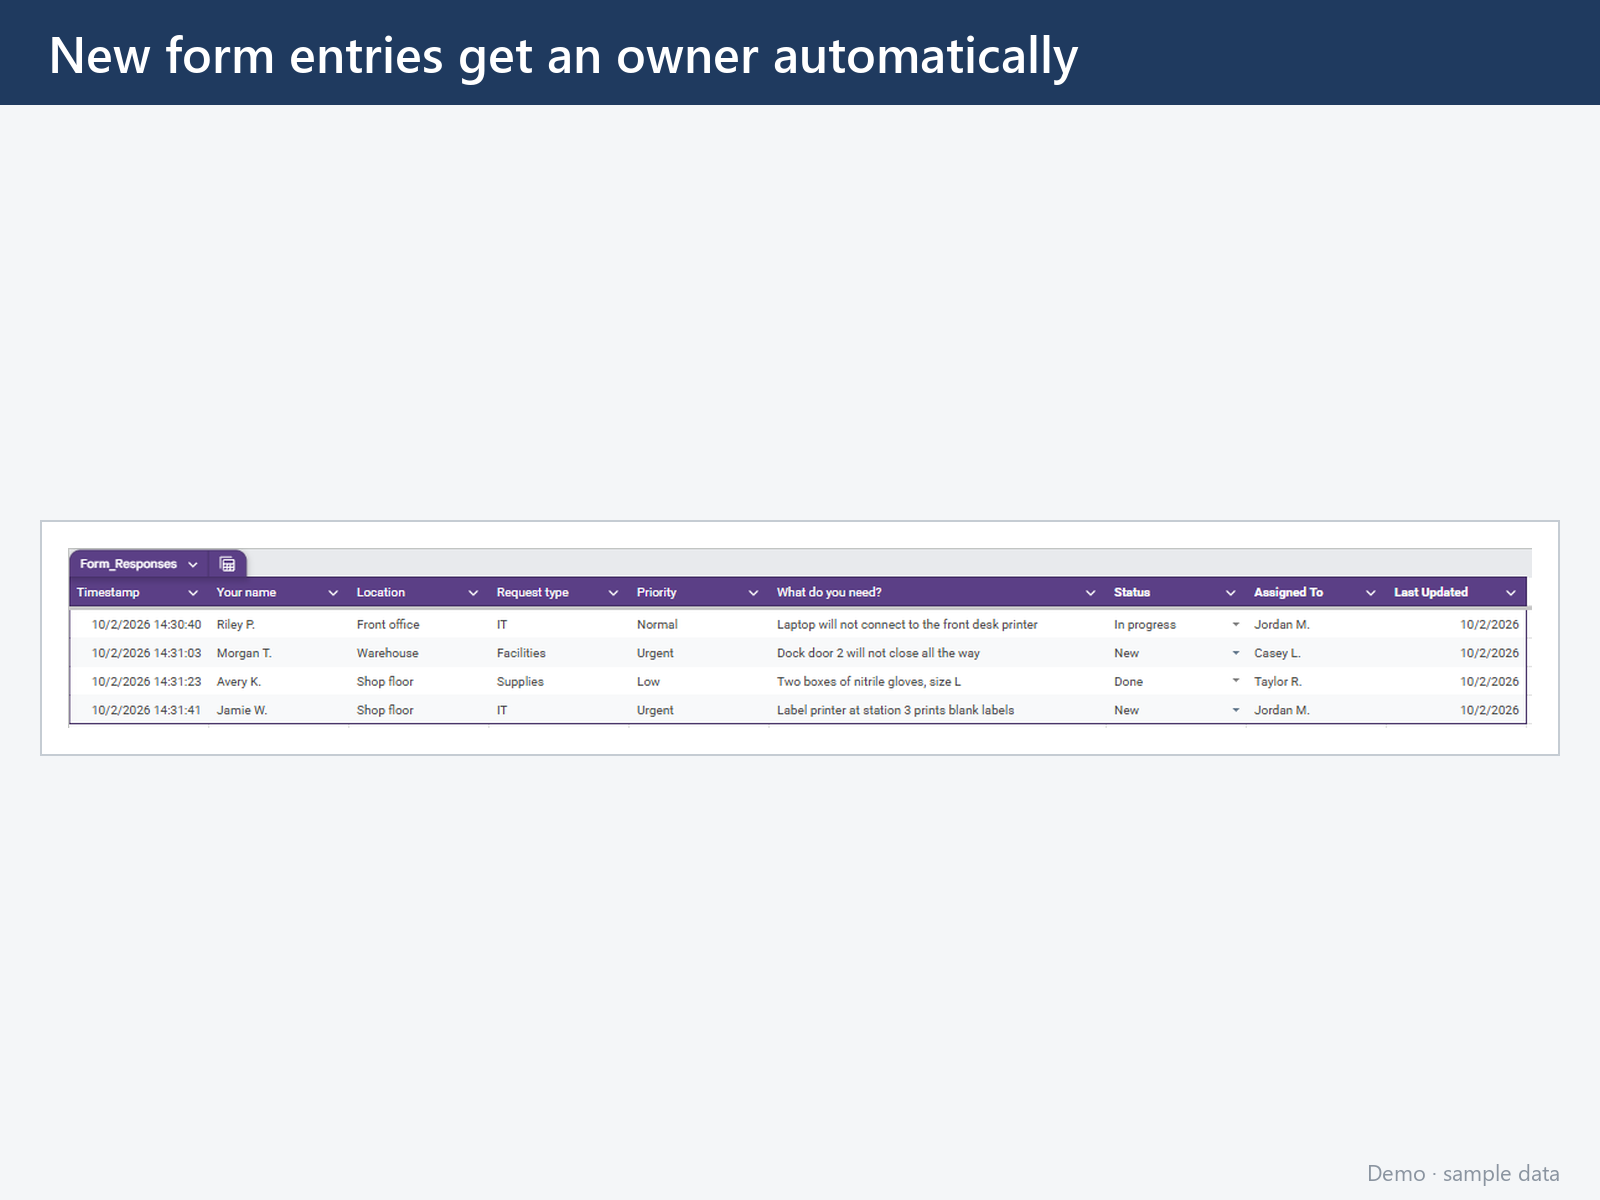
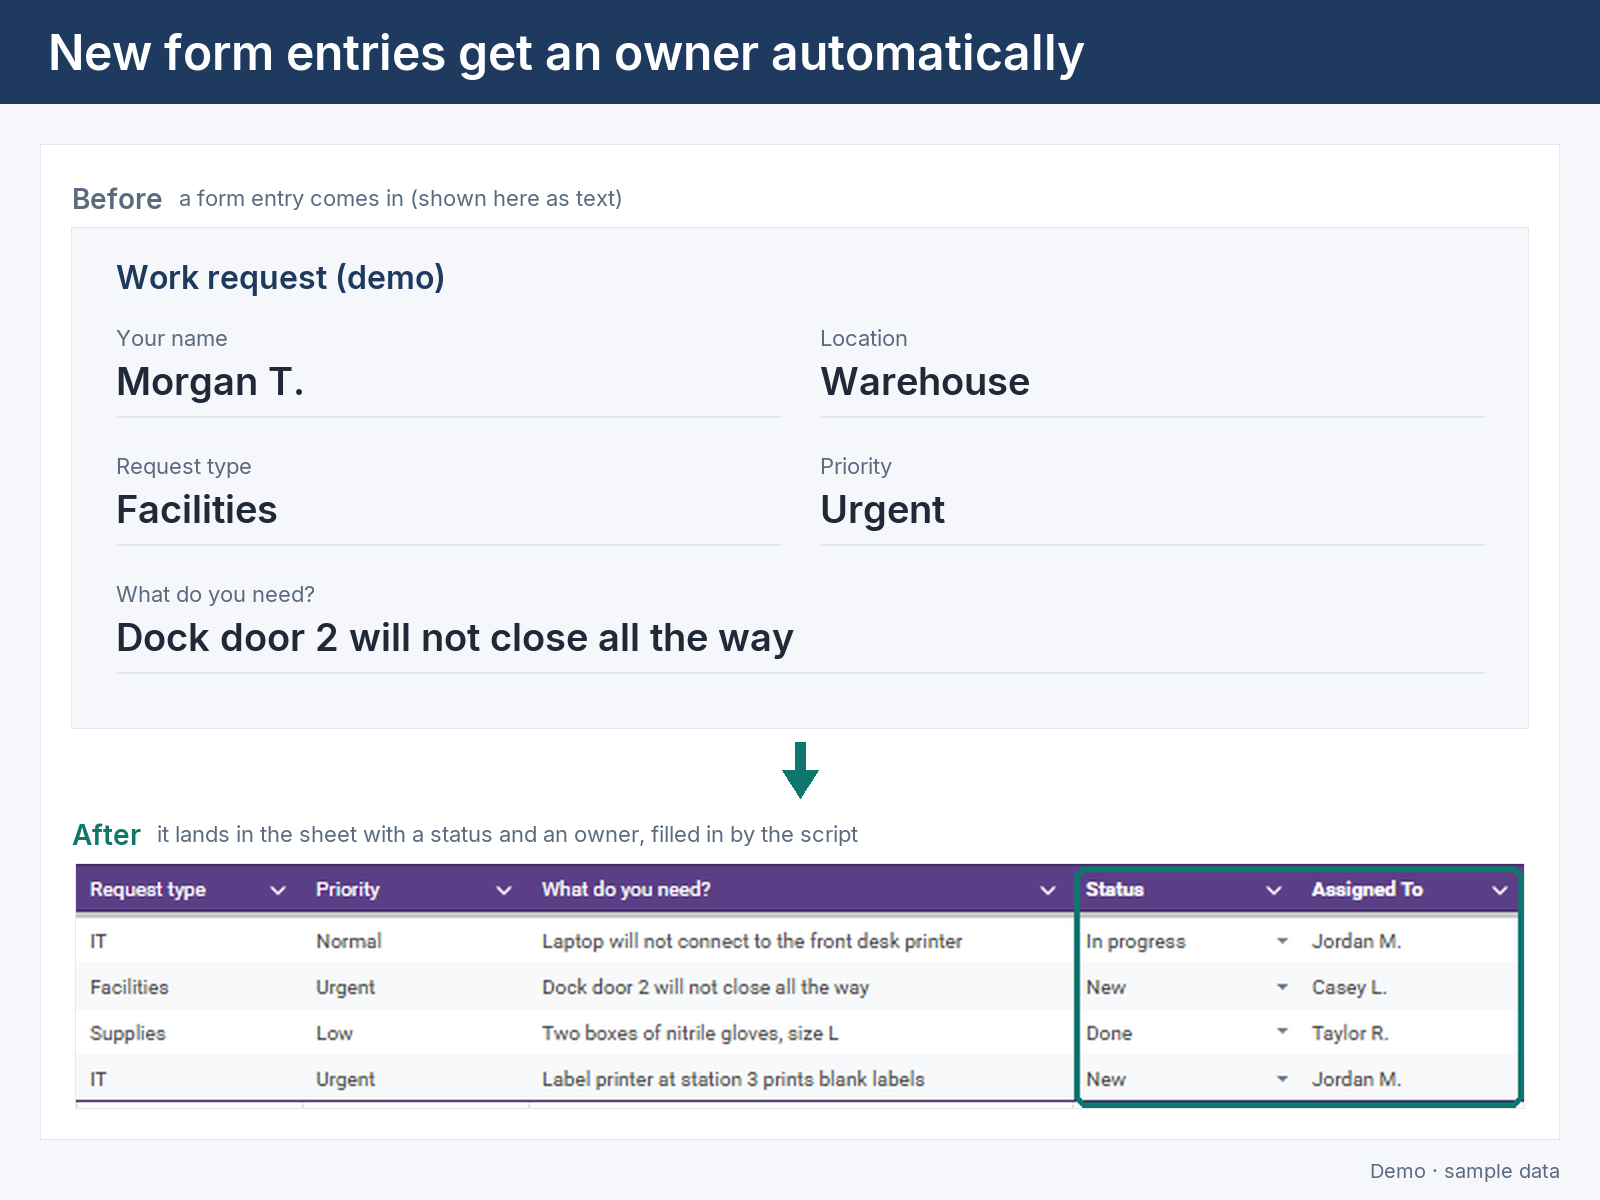
Re-frame the three showcase images on the style guide template
The framing tool now uses the showcase kit. The sheet image becomes a
before/after: a form entry drawn as text from the sample data, above the
real sheet rows cropped to five columns so they can be shown at 2x, with
the two columns the script fills boxed in teal. The summary email gets a
short list of what it contains. Raw captures are unchanged and untracked.

diff --git a/tools/frame_screenshots.py b/tools/frame_screenshots.py
@@ -4,77 +4,88 @@ Usage:
     python tools\\frame_screenshots.py              frame screenshots\\raw\\ into screenshots\\
     python tools\\frame_screenshots.py --self-test  check the tool with made-up placeholder captures
 
-Each finished image is a composite: a title strip with a caption, the capture on
-a white card in the middle, and "Demo - sample data" at the bottom right.
+The frame (navy strip, caption, white card, footer) is the AZG showcase template,
+tools\\showcase.py. This tool decides what goes on each card:
 
-- Captures whose file names start with the same number are stacked top to bottom
-  into one image, so an email's subject line and its body can be captured
-  separately, leaving out the line with the addresses between them.
-- Captures are scaled up to fill the card, but never beyond twice their size, so
-  the text stays sharp. All parts of one image share the same scale.
+  shot 1  a form entry (drawn as text from sample-data\\responses.csv) above the
+          sheet rows it turns into, with the two columns the script fills boxed
+  shot 2  the alert email: subject and body
+  shot 3  the daily summary email: subject and body, with what it contains
+  shot 4  the Run Log, if it was captured
+
+- Captures whose file names start with the same number belong to the same shot.
+- Captures are enlarged to fill the card, never beyond twice their size, so the
+  text stays sharp. All captures of one shot share one scale.
 - CROPS trims a capture before framing. The raw file itself is never changed.
 
 The captures are re-drawn, not copied, so nothing hidden in the original file
 (such as who captured it) carries over. What is visible in a capture is NOT
 checked: crop out addresses and the account picture when capturing, as DEPLOY.md
-says.
+says. A 400 px wide copy of each image goes to screenshots\\_work\\ for a look at
+thumbnail size.
 """
 
 from __future__ import annotations
 
+import csv
 import hashlib
 import re
 import sys
 from dataclasses import dataclass
 from pathlib import Path
 
-from PIL import Image, ImageDraw, ImageFont
+from PIL import Image, ImageDraw
+
+import showcase as kit  # tools\showcase.py: a copy of the AZG showcase kit
 
 ROOT = Path(__file__).resolve().parent.parent
 SHOTS_DIR = ROOT / "screenshots"
 RAW_DIR = SHOTS_DIR / "raw"
 WORK_DIR = SHOTS_DIR / "_work"
-FONTS = Path(r"C:\Windows\Fonts")
+RESPONSES = ROOT / "sample-data" / "responses.csv"
+
+FORM_TITLE = "Work request (demo)"
+FEATURED_RESPONSE = 2  # the entry shown in shot 1: line 2 of responses.csv, the one in the alert email
 
 
 @dataclass(frozen=True)
 class Shot:
     file_name: str  # the finished image
     caption: str  # on the title strip: 4 to 8 words
-    labels: tuple[str, ...] = ()  # a small label above each stacked part, when the counts match
+    layout: str  # which card builder below lays it out
 
 
 # Shot number -> the finished image. Captures are matched by the number their name starts with.
 SHOTS = {
-    "1": Shot("1-sheet-status-and-assignee.png", "New form entries get an owner automatically"),
-    "2": Shot("2-alert-email.png", "Each new request sends an alert email", ("Subject", "Email")),
-    "3": Shot("3-daily-summary-email.png", "A daily summary lists what's still open", ("Subject", "Email")),
-    "4": Shot("4-run-log.png", "Every run is recorded in a log"),
+    "1": Shot("1-sheet-status-and-assignee.png", "New form entries get an owner automatically", "form_to_sheet"),
+    "2": Shot("2-alert-email.png", "Each new request sends an alert email", "email"),
+    "3": Shot("3-daily-summary-email.png", "A daily summary lists what's still open", "summary"),
+    "4": Shot("4-run-log.png", "Every run is recorded in a log", "plain"),
 }
 
 # Pixels to trim from a capture before framing, by raw file name.
-# 2b: the capture ends with the bare label "Open the sheet:" (the link after it was
-# left out on purpose). 32 px takes off that line and the blank line above it.
 CROPS = {
+    # The sheet capture is 1181 px wide, too wide to enlarge much. Keep the five
+    # columns from "Request type" to "Assigned To": cut left of "Request type"
+    # (339), cut "Last Updated" off the right (118), and take off the tab strip
+    # above the header row (23). Each cut falls in the gap between two columns.
+    "1-sheet.png": {"left": 339, "right": 118, "top": 23},
+    # The capture ends with the bare label "Open the sheet:" (the link after it was
+    # left out on purpose). 32 px takes off that line and the blank line above it.
     "2b-alert-body.png": {"bottom": 32},
 }
 
-MAX_UPSCALE = 2.0  # never enlarge a capture beyond this, or its text goes soft
+# In shot 1, the part of the cropped sheet capture to box in teal: the Status and
+# Assigned To columns, which the script fills in. (left, top, right, bottom) in pixels.
+SHEET_HIGHLIGHT = (499, 1, 723, 121)
 
-WIDTH, HEIGHT = 1600, 1200
-STRIP_HEIGHT = 104
-MARGIN = 40
-CONTENT_BOX = (MARGIN, STRIP_HEIGHT + 28, WIDTH - MARGIN, HEIGHT - 56)
-BACKGROUND = "#F4F6F8"
-STRIP = "#1F3A5F"
-FOOTNOTE = "Demo \u00b7 sample data"
-STACK_GAP = 22
-CARD_PAD = 28
-LABEL_HEIGHT = 34
-
-
-def font(file_name: str, size: int) -> ImageFont.FreeTypeFont:
-    return ImageFont.truetype(str(FONTS / file_name), size)
+EMAIL_LABELS = ("Subject", "Email")
+SUMMARY_POINTS = [
+    "One email a day, to the sheet owner",
+    "Grouped by who it is assigned to",
+    "Urgent first, then the oldest",
+    "Finished requests drop off the list",
+]
 
 
 def load(path: Path, crop: dict[str, int] | None = None) -> Image.Image:
@@ -91,47 +102,88 @@ def load(path: Path, crop: dict[str, int] | None = None) -> Image.Image:
     return plain.crop(box)
 
 
-def build_card(parts: list[Image.Image], labels: tuple[str, ...]) -> tuple[Image.Image, float]:
-    """The captures top to bottom on one white card. Returns the card and the scale used."""
-    if len(labels) != len(parts):
-        labels = ()
-    left, top, right, bottom = CONTENT_BOX
-    fixed = 2 * CARD_PAD + STACK_GAP * (len(parts) - 1) + LABEL_HEIGHT * len(labels)
-    scale = min(MAX_UPSCALE,
-                (right - left - 2 * CARD_PAD) / max(part.width for part in parts),
-                (bottom - top - fixed) / sum(part.height for part in parts))
-    scaled = [part.resize((max(1, round(part.width * scale)), max(1, round(part.height * scale))), Image.LANCZOS)
-              for part in parts]
+def featured_response() -> list[tuple[str, str]]:
+    """The form's questions and one made-up answer to each, from the sample data."""
+    with open(RESPONSES, newline="", encoding="utf-8") as handle:
+        rows = list(csv.reader(handle))
+    return list(zip(rows[0][1:], rows[FEATURED_RESPONSE][1:]))  # without the Timestamp column
 
-    card = Image.new("RGB", (max(part.width for part in scaled) + 2 * CARD_PAD,
-                             sum(part.height for part in scaled) + fixed), "white")
-    draw = ImageDraw.Draw(card)
-    y = CARD_PAD
-    for index, part in enumerate(scaled):
-        if labels:
-            draw.text((CARD_PAD, y + LABEL_HEIGHT // 2 - 2), labels[index], font=font("segoeui.ttf", 22),
-                      fill="#8A94A0", anchor="lm")
-            y += LABEL_HEIGHT
-        card.paste(part, (CARD_PAD, y))
-        y += part.height + STACK_GAP
-    draw.rectangle((0, 0, card.width - 1, card.height - 1), outline="#C5CCD3", width=2)
+
+def form_panel(size: tuple[int, int]) -> Image.Image:
+    """A form entry drawn as plain text: the question titles with one answer each."""
+    width, height = size
+    panel = Image.new("RGB", size, kit.SURFACE)
+    draw = ImageDraw.Draw(panel)
+    margin = 44
+    kit.text(draw, (margin, 30), FORM_TITLE, 32, "semibold", kit.NAVY)
+
+    fields = featured_response()
+    cells = [(0, 0, 1), (1, 0, 1), (0, 1, 1), (1, 1, 1), (0, 2, 2)]  # column, row, columns spanned
+    column_width = (width - 2 * margin - 40) // 2
+    top = 96
+    row_height = (height - top - 20) // 3
+    for (question, answer), (column, row, span) in zip(fields, cells):
+        x = margin + column * (column_width + 40)
+        y = top + row * row_height
+        right = x + column_width * span + 40 * (span - 1)
+        kit.text(draw, (x, y), question, 22, "regular", kit.SLATE)
+        kit.text(draw, (x, y + 34), answer, 38, "semibold", kit.INK)
+        draw.line((x, y + 92, right, y + 92), fill=kit.LINE, width=2)
+    return panel
+
+
+def card_form_to_sheet(parts: list[Image.Image]) -> tuple[Image.Image, float]:
+    """Before: the form entry. After: the sheet rows, with the script's two columns boxed."""
+    sheet = parts[0].copy()
+    if sheet.size == (724, 122):  # the real capture, cropped as in CROPS
+        ImageDraw.Draw(sheet).rounded_rectangle(SHEET_HIGHLIGHT, radius=6, outline=kit.TEAL, width=3)
+    left, top, right, bottom = kit.inner(kit.new_card())
+    scale = min(kit.MAX_CAPTURE_UPSCALE, (right - left) / sheet.width)
+    usable = bottom - top - kit.ARROW_GAP - 2 * kit.LABEL_ROW
+    before_height = usable - round(sheet.height * scale)
+    card, scales = kit.before_after(
+        form_panel((right - left, before_height)), sheet, orientation="vertical", share=before_height / usable,
+        before_note="a form entry comes in (shown here as text)",
+        after_note="it lands in the sheet with a status and an owner, filled in by the script",
+        after_upscale=kit.MAX_CAPTURE_UPSCALE)
+    return card, scales[1]
+
+
+def card_email(parts: list[Image.Image]) -> tuple[Image.Image, float]:
+    """The subject line and the body, stacked under small labels, centred on the card."""
+    card = kit.new_card()
+    left, top, right, bottom = kit.inner(card)
+    labels = EMAIL_LABELS if len(parts) == len(EMAIL_LABELS) else ("",) * len(parts)
+    block, scale = kit.labelled_stack(list(zip(labels, parts)), right - left, bottom - top)
+    kit.place(card, block, (left, top, right, bottom), max_upscale=1.0)
     return card, scale
 
 
-def compose(card: Image.Image, caption: str, out_path: Path) -> None:
-    """Title strip on top, the card centred in the rest, footnote bottom right."""
-    canvas = Image.new("RGB", (WIDTH, HEIGHT), BACKGROUND)
-    draw = ImageDraw.Draw(canvas)
-    draw.rectangle((0, 0, WIDTH, STRIP_HEIGHT), fill=STRIP)
-    draw.text((MARGIN + 8, STRIP_HEIGHT // 2), caption, font=font("seguisb.ttf", 50), fill="white", anchor="lm")
+def card_summary(parts: list[Image.Image]) -> tuple[Image.Image, float]:
+    """The summary email on the left, what it contains on the right."""
+    card = kit.new_card()
+    left, top, right, bottom = kit.inner(card)
+    points_width = 430
+    labels = EMAIL_LABELS if len(parts) == len(EMAIL_LABELS) else ("",) * len(parts)
+    block, scale = kit.labelled_stack(list(zip(labels, parts)), right - left - points_width - 60, bottom - top)
+    box, _ = kit.place(card, block, (left, top, right - points_width - 60, bottom), max_upscale=1.0, align="left")
+    x = box[2] + 60
+    draw = ImageDraw.Draw(card)
+    kit.text(draw, (x, box[1] + 6), "What's in it", 26, "semibold", kit.SLATE)
+    kit.bullet_list(card, (x, box[1] + 64, right, bottom), SUMMARY_POINTS, size=28)
+    return card, scale
 
-    left, top, right, bottom = CONTENT_BOX
-    assert card.width <= right - left and card.height <= bottom - top, card.size
-    canvas.paste(card, (left + (right - left - card.width) // 2, top + (bottom - top - card.height) // 2))
 
-    draw.text((WIDTH - MARGIN, HEIGHT - 28), FOOTNOTE, font=font("segoeui.ttf", 22), fill="#8A94A0", anchor="rm")
-    out_path.parent.mkdir(parents=True, exist_ok=True)
-    canvas.save(out_path, "PNG")
+def card_plain(parts: list[Image.Image]) -> tuple[Image.Image, float]:
+    """One or more captures, stacked and centred."""
+    card = kit.new_card()
+    left, top, right, bottom = kit.inner(card)
+    block, scale = kit.labelled_stack([("", part) for part in parts], right - left, bottom - top)
+    kit.place(card, block, (left, top, right, bottom), max_upscale=1.0)
+    return card, scale
+
+
+LAYOUTS = {"form_to_sheet": card_form_to_sheet, "email": card_email, "summary": card_summary, "plain": card_plain}
 
 
 def shot_number(path: Path) -> str | None:
@@ -140,7 +192,7 @@ def shot_number(path: Path) -> str | None:
     return digits.group() if digits else None
 
 
-def frame_all(raw_dir: Path, out_dir: Path, crops: dict[str, dict[str, int]]) -> list[dict]:
+def frame_all(raw_dir: Path, out_dir: Path, crops: dict[str, dict[str, int]], thumbnails: Path | None = None) -> list[dict]:
     """Frame every shot that has captures. Returns one record per image written."""
     captures = sorted(p for p in raw_dir.glob("*") if p.suffix.lower() in (".png", ".jpg", ".jpeg"))
     for path in captures:
@@ -153,16 +205,14 @@ def frame_all(raw_dir: Path, out_dir: Path, crops: dict[str, dict[str, int]]) ->
             print(f"  shot {number}: no capture starting with '{number}' in {raw_dir.name}\\ - skipped")
             continue
         parts = [load(p, crops.get(p.name)) for p in sources]
-        card, scale = build_card(parts, shot.labels)
-        out_path = out_dir / shot.file_name
-        compose(card, shot.caption, out_path)
-        with Image.open(out_path) as check:
-            assert check.size == (WIDTH, HEIGHT), check.size
-            assert not check.info, check.info
+        card, scale = LAYOUTS[shot.layout](parts)
+        out_path = kit.compose(card, shot.caption, out_dir / shot.file_name)
+        if thumbnails:
+            kit.thumbnail(out_path, thumbnails)
         used = ", ".join(p.name + (f" (cropped: {crops[p.name]})" if p.name in crops else "") for p in sources)
-        print(f"  shot {number}: {shot.file_name}  {WIDTH}x{HEIGHT}  scale {scale:.2f}x  from {used}")
+        print(f"  shot {number}: {shot.file_name}  {kit.WIDTH}x{kit.HEIGHT}  captures at {scale:.2f}x  from {used}")
         records.append({"path": out_path, "scale": scale, "sources": [p.name for p in sources],
-                        "sizes": [part.size for part in parts], "card": card.size})
+                        "sizes": [part.size for part in parts]})
     return records
 
 
@@ -177,7 +227,7 @@ def self_test() -> int:
     for stale in [*raw.glob("*.png"), *out.glob("*.png")]:
         stale.unlink()
     placeholders = {  # named and sized like real captures
-        "1-sheet.png": (1400, 420),
+        "1-sheet.png": (1181, 145),
         "2a-alert-subject.png": (900, 60),
         "2b-alert-body.png": (760, 520),
         "3a-summary-subject.png": (300, 30),
@@ -187,32 +237,37 @@ def self_test() -> int:
     for name, size in placeholders.items():
         image = Image.new("RGBA", size, "white")
         draw = ImageDraw.Draw(image)
-        draw.rectangle((0, 0, size[0] - 1, size[1] - 1), outline="#9AA5B1", width=3)
-        draw.text((12, 4), f"placeholder {name}", font=font("segoeui.ttf", 16), fill="#333333")
+        draw.rectangle((0, 0, size[0] - 1, size[1] - 1), outline=kit.SLATE, width=3)
+        kit.text(draw, (12, 4), f"placeholder {name}", 16, "regular", kit.INK)
         image.save(raw / name, "PNG")
     before = {name: digest(raw / name) for name in placeholders}
 
-    print("Self-test: framing placeholder captures")
-    records = frame_all(raw, out, {"2b-alert-body.png": {"bottom": 20}})
+    print(f"Self-test (showcase kit {kit.__version__}): framing placeholder captures")
+    crops = {"1-sheet.png": CROPS["1-sheet.png"], "2b-alert-body.png": {"bottom": 20}}
+    records = frame_all(raw, out, crops)
     by_name = {record["path"].name: record for record in records}
 
     assert list(by_name) == [SHOTS[n].file_name for n in ("1", "2", "3")], list(by_name)
     assert not (out / SHOTS["4"].file_name).exists()
     assert by_name[SHOTS["2"].file_name]["sources"] == ["2a-alert-subject.png", "2b-alert-body.png"]
     assert by_name[SHOTS["3"].file_name]["sources"] == ["3a-summary-subject.png", "3b-summary-body.png"]
-    assert by_name[SHOTS["2"].file_name]["sizes"] == [(900, 60), (760, 500)], "the 20 px crop was not applied"
+    assert by_name[SHOTS["2"].file_name]["sizes"] == [(900, 60), (760, 500)], "the 20 px bottom crop was not applied"
+    assert by_name[SHOTS["1"].file_name]["sizes"] == [(724, 122)], "the sheet crop (left, right, top) was not applied"
     assert {name: digest(raw / name) for name in placeholders} == before, "a raw capture was changed"
-    left, top, right, bottom = CONTENT_BOX
     for record in records:
-        assert record["scale"] <= MAX_UPSCALE, record
-        assert record["card"][0] <= right - left and record["card"][1] <= bottom - top, record
-    assert by_name[SHOTS["3"].file_name]["scale"] == MAX_UPSCALE, "small captures should be doubled, no more"
-    assert by_name[SHOTS["1"].file_name]["scale"] < MAX_UPSCALE, "a wide capture is limited by the card width"
+        assert record["scale"] <= kit.MAX_CAPTURE_UPSCALE, record
+        with Image.open(record["path"]) as image:
+            assert image.size == (kit.WIDTH, kit.HEIGHT) and not image.info, (image.size, image.info)
+    assert by_name[SHOTS["3"].file_name]["scale"] == kit.MAX_CAPTURE_UPSCALE, "small captures should be doubled, no more"
+    assert by_name[SHOTS["2"].file_name]["scale"] < kit.MAX_CAPTURE_UPSCALE, "a wide capture is limited by the card width"
+    fields = featured_response()
+    assert [question for question, _ in fields] == ["Your name", "Location", "Request type", "Priority", "What do you need?"]
+    assert all(answer and "@" not in answer for _, answer in fields)
     for shot in SHOTS.values():
         assert 4 <= len(shot.caption.split()) <= 8, shot.caption
-        assert font("seguisb.ttf", 50).getlength(shot.caption) < WIDTH - 2 * MARGIN, shot.caption
-    print(f"Self-test passed: {len(records)} images framed at {WIDTH}x{HEIGHT}; parts stacked by shot number; "
-          f"crop applied; raw files unchanged; no capture enlarged beyond {MAX_UPSCALE:.0f}x; shot 4 skipped as expected")
+    print(f"Self-test passed: {len(records)} images framed at {kit.WIDTH}x{kit.HEIGHT}; parts stacked by shot number; "
+          f"crops applied; raw files unchanged; no capture enlarged beyond {kit.MAX_CAPTURE_UPSCALE:.0f}x; "
+          "form entry read from the sample data; shot 4 skipped as expected")
     return 0
 
 
@@ -222,12 +277,12 @@ def main(argv: list[str]) -> int:
     if not RAW_DIR.is_dir():
         print(f"No {RAW_DIR.relative_to(ROOT)} folder yet. Save the captures there first (see DEPLOY.md).")
         return 1
-    print(f"Framing captures from {RAW_DIR.relative_to(ROOT)}\\")
+    print(f"Framing captures from {RAW_DIR.relative_to(ROOT)}\\ (showcase kit {kit.__version__})")
     before = {p.name: digest(p) for p in RAW_DIR.glob("*") if p.is_file()}
-    records = frame_all(RAW_DIR, SHOTS_DIR, CROPS)
+    records = frame_all(RAW_DIR, SHOTS_DIR, CROPS, thumbnails=WORK_DIR)
     unchanged = before == {p.name: digest(p) for p in RAW_DIR.glob("*") if p.is_file()}
     print(f"{len(records)} image(s) written to {SHOTS_DIR.relative_to(ROOT)}\\; "
-          f"raw captures {'unchanged' if unchanged else 'CHANGED'}")
+          f"raw captures {'unchanged' if unchanged else 'CHANGED'}; 400 px copies in screenshots\\_work\\")
     return 0 if records and unchanged else 1
 
 

diff --git a/README.md b/README.md
@@ -35,6 +35,7 @@ script runs; it is never stored.
 | `tests\` | 46 tests, run with Node. No Google account needed. One of them replays the walkthrough in `DEPLOY.md`. |
 | `DEPLOY.md` | The owner's 15-minute guide: create the form, paste the script, run it, capture screenshots. |
 | `tools\frame_screenshots.py` | Turns the raw captures into finished 1600x1200 images. |
+| `tools\showcase.py`, `tools\fonts\` | The AZG showcase kit (the screenshot template) and the Inter font it uses. |
 | `screenshots\` | The finished images, once the captures exist. |
 
 ## How to run it
@@ -64,6 +65,15 @@ python -m venv .venv
 ```
 
 `--self-test` checks the framing tool with placeholder images.
+
+The frame (navy strip, caption, white card, footer) comes from the AZG showcase kit,
+`tools\showcase.py`, which follows the AZG build style guide. Don't edit that copy:
+change the kit in `Products\showcase-kit\` and sync it. What the tool itself decides
+is at the top of `tools\frame_screenshots.py`: the captions (`SHOTS`), what is
+trimmed off each capture (`CROPS`), and the points listed beside the summary email
+(`SUMMARY_POINTS`). The raw captures are never changed. Captures are enlarged at
+most 2x. The first image shows a form entry as text, taken from
+`sample-data\responses.csv`, above the real sheet rows.
 
 ## How to change it
 
@@ -135,4 +145,12 @@ by pip into `.venv`:
 Pillow has no other Python dependencies. Everything a buyer would run, the two
 `.gs` files, has no third-party dependency at all.
 
-The framed screenshots use the Segoe UI font that ships with Windows.
+Kept in this repository, for the screenshots only:
+
+| Item | Version | Licence | Where |
+| --- | --- | --- | --- |
+| Inter font (Regular, SemiBold) | 4.1 | SIL Open Font License 1.1 | `tools\fonts\`, with the licence text in `tools\fonts\OFL.txt` |
+| AZG showcase kit | 1.0.0 | AZG Engineering's own | `tools\showcase.py`, an exact copy of `Products\showcase-kit\showcase.py` |
+
+No system font is drawn into the framed images. The text inside the captures
+themselves is whatever Google's pages used.
